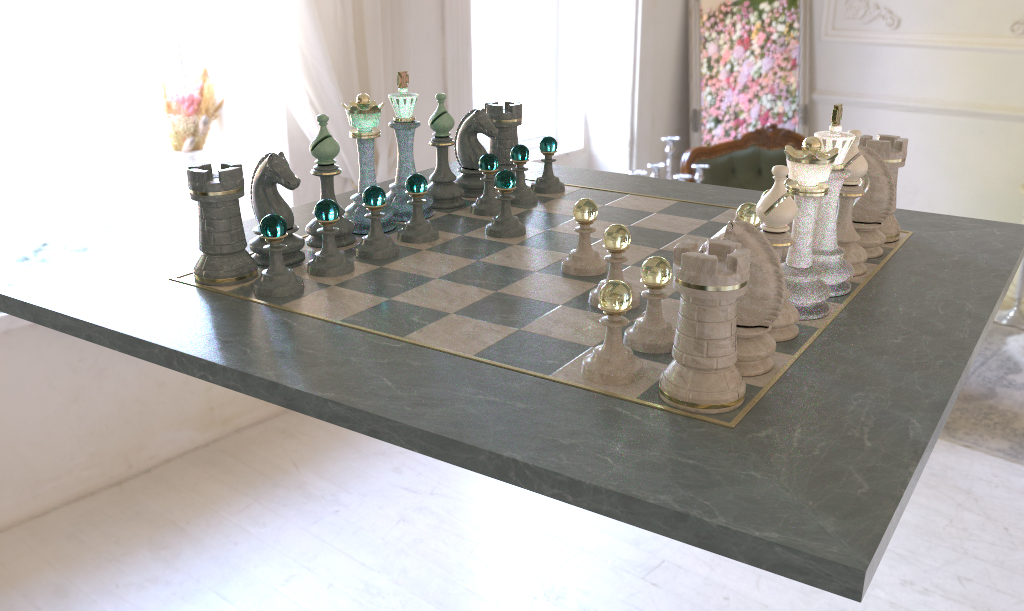
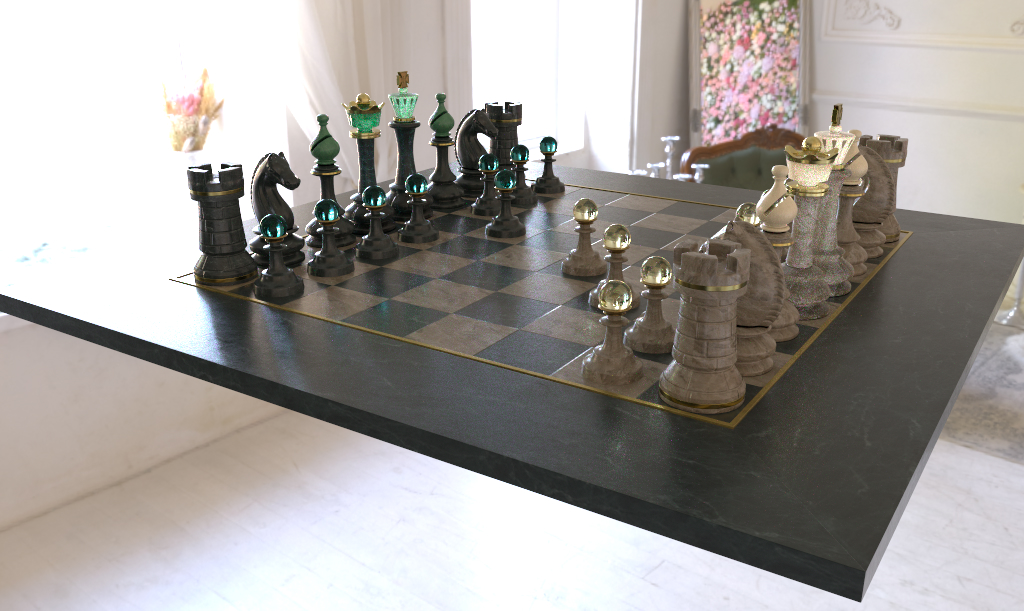
Preserve MaterialX texture color spaces

diff --git a/src/materialx/materialx_compiler.cpp b/src/materialx/materialx_compiler.cpp
@@ -12,6 +12,7 @@
 
 #include <cstdlib>
 #include <iostream>
+#include <map>
 #include <set>
 #include <stdexcept>
 #include <string>
@@ -169,7 +170,9 @@ MaterialXGeneratedProgram BuildGeneratedProgram(
 }
 
 void DumpGeneratedProgram(
-    const MaterialXGeneratedProgram& program, std::string_view shaderName)
+    const MaterialXGeneratedProgram& program,
+    const std::vector<MaterialXShaderInput>& textures,
+    std::string_view shaderName)
 {
     const char* enabled = std::getenv("HDCODEX_DUMP_MATERIALX_PROGRAM");
     const char* filter = std::getenv("HDCODEX_DUMP_MATERIALX_FILTER");
@@ -190,6 +193,12 @@ void DumpGeneratedProgram(
             }
             std::cerr << '\n';
         }
+    }
+    for (const MaterialXShaderInput& texture : textures) {
+        std::cerr << "texture " << texture.name << " = " << texture.value
+                  << " colorspace="
+                  << (texture.colorSpace.empty() ? "<none>" : texture.colorSpace)
+                  << '\n';
     }
 }
 
@@ -269,19 +278,65 @@ std::vector<MaterialXShaderInput> ReflectPublicUniforms(
     return result;
 }
 
+std::string CanonicalColorSpace(std::string_view colorSpace)
+{
+    // USD assets commonly use the ASWF Color Interop texture alias while
+    // MaterialX's built-in color management library calls the same transfer
+    // function srgb_texture. Keep the compiler boundary in MaterialX terms.
+    if (colorSpace == "srgb_tx" || colorSpace == "srgb_rec709_scene") {
+        return "srgb_texture";
+    }
+    if (colorSpace == "lin_rec709_scene") return "lin_rec709";
+    return std::string(colorSpace);
+}
+
+std::map<std::string, std::string, std::less<>> FilenameColorSpaces(
+    const MaterialX::DocumentPtr& document)
+{
+    std::map<std::string, std::string, std::less<>> result;
+    for (const MaterialX::ElementPtr& element : document->traverseTree()) {
+        const MaterialX::InputPtr input = element->asA<MaterialX::Input>();
+        if (!input || input->getType() != MaterialX::FILENAME_TYPE_STRING ||
+            !input->hasValue()) {
+            continue;
+        }
+        const std::string value = input->getValueString();
+        if (value.empty()) continue;
+        const std::string colorSpace = CanonicalColorSpace(
+            input->getActiveColorSpace());
+        const auto [position, inserted] = result.try_emplace(value, colorSpace);
+        if (!inserted && position->second.empty()) {
+            position->second = colorSpace;
+        } else if (!inserted && !colorSpace.empty() &&
+                   position->second != colorSpace) {
+            throw std::runtime_error(
+                "MaterialX filename is used with conflicting color spaces: " +
+                value);
+        }
+    }
+    return result;
+}
+
 std::vector<MaterialXShaderInput> ReflectTextures(
-    const MaterialX::ShaderStage& stage)
+    const MaterialX::ShaderStage& stage,
+    const MaterialX::DocumentPtr& document)
 {
     std::vector<MaterialXShaderInput> result;
+    const auto sourceColorSpaces = FilenameColorSpaces(document);
     for (const auto& [blockName, block] : stage.getUniformBlocks()) {
         (void)blockName;
         for (const MaterialX::ShaderPort* port : block->getVariableOrder()) {
             if (port->getType() != MaterialX::Type::FILENAME) continue;
+            std::string colorSpace = CanonicalColorSpace(port->getColorSpace());
+            if (colorSpace.empty()) {
+                const auto source = sourceColorSpaces.find(port->getValueString());
+                if (source != sourceColorSpaces.end()) colorSpace = source->second;
+            }
             result.push_back({
                 .name = port->getVariable(),
                 .type = port->getType().getName(),
                 .value = port->getValueString(),
-                .colorSpace = port->getColorSpace(),
+                .colorSpace = std::move(colorSpace),
             });
         }
     }
@@ -345,11 +400,11 @@ MaterialXCompiledShader MaterialXCompiler::CompileDocument(
     result.pixelSource = shader->getSourceCode(MaterialX::Stage::PIXEL);
     const auto& pixelStage = shader->getStage(MaterialX::Stage::PIXEL);
     result.publicUniforms = ReflectPublicUniforms(pixelStage);
-    result.textures = ReflectTextures(pixelStage);
+    result.textures = ReflectTextures(pixelStage, generationDocument);
     if (mode != ShadingMode::RasterPreview) {
         result.program = BuildGeneratedProgram(
             generationDocument, renderables.front());
-        DumpGeneratedProgram(result.program, shaderName);
+        DumpGeneratedProgram(result.program, result.textures, shaderName);
         result.closure = CompileMaterialXClosure(result.program);
     }
     FlattenVulkanVertexData(*shader, result.vertexSource, result.pixelSource);

diff --git a/tests/materialx_compiler_tests.cpp b/tests/materialx_compiler_tests.cpp
@@ -126,7 +126,7 @@ try {
     <input name="geomprop" type="string" value="st"/>
   </geompropvalue>
   <image name="albedo" type="color3">
-    <input name="file" type="filename" value="unused.png"/>
+    <input name="file" type="filename" value="unused.png" colorspace="srgb_tx"/>
     <input name="texcoord" type="vector2" nodename="st"/>
   </image>
   <open_pbr_surface name="surface" type="surfaceshader">
@@ -150,7 +150,8 @@ try {
               std::string::npos,
           "MaterialX vertex connector assignment was not flattened");
     Check(std::ranges::any_of(textured.textures, [](const auto& input) {
-        return input.name == "albedo_file" && input.value == "unused.png";
+        return input.name == "albedo_file" && input.value == "unused.png" &&
+            input.colorSpace == "srgb_texture";
     }), "MaterialX texture interface was not reflected");
     Check(std::ranges::any_of(textured.publicUniforms, [](const auto& input) {
         return input.name == "surface_base_weight" && input.type == "float";

diff --git a/tools/inspect_materials.py b/tools/inspect_materials.py
@@ -29,7 +29,14 @@ def main() -> int:
             )
             value = shader_input.Get()
             if value is not None or source_text:
-                print(f"  {shader_input.GetBaseName()}: {value!r} <- {source_text}")
+                color_space = shader_input.GetAttr().GetColorSpace()
+                color_space_text = (
+                    f" colorspace={color_space}" if color_space else ""
+                )
+                print(
+                    f"  {shader_input.GetBaseName()}: {value!r}"
+                    f"{color_space_text} <- {source_text}"
+                )
         count += 1
         if count >= args.limit:
             break

diff --git a/src/hydra/material.cpp b/src/hydra/material.cpp
@@ -63,8 +63,7 @@ std::string LoadTexture(
     std::string_view path,
     std::string_view colorSpace)
 {
-    const bool srgb = colorSpace == "srgb_texture" ||
-        colorSpace == "srgb_rec709_scene";
+    const bool srgb = colorSpace == "srgb_texture";
     return hdcodex::LoadSceneTexture(
         scene, std::string(path),
         srgb ? hdcodex::TextureColorSpace::Srgb

diff --git a/README.md b/README.md
@@ -168,6 +168,7 @@ compile.bat
 validate_usd.bat
 render_test.bat
 render_codex.bat --imageWidth 512 --camera renderCam gallery\chess_board.usda gallery\chess_board.jpg
+render_gallery.bat
 launch_codex.bat
 ```
 
@@ -201,9 +202,10 @@ The images in `gallery/` are checked-in visual baselines. They cover:
 - Pixar KitchenSet for Z-up coordinates and per-mesh `displayColor` fallback.
 - Collective Project 001 for UsdSkel deformation and mesh-subset materials.
 
-Run the command printed beside each image in `gallery.md`, record wall time, and
-commit both the changed images and timing table whenever an intentional renderer
-change affects output.
+Run `render_gallery.bat` to regenerate every baseline at 1024 pixels wide and
+1024 samples per pixel. Record wall time in `gallery.md`, and commit both the
+changed images and timing table whenever an intentional renderer change affects
+output.
 
 ## License
 

diff --git a/docs/architecture.md b/docs/architecture.md
@@ -168,8 +168,10 @@ The default pipeline is:
    unsupported auxiliary normal, volume, emission, and energy-compensation
    decorations preserve the independently supported base closure. USD-native
    `Usd*` networks are rejected rather than translated into MaterialX lookalikes.
-5. Decode referenced images through Hio and upload them to descriptor-indexed
-   Vulkan images with sRGB/raw formats selected per input role.
+5. Preserve filename color-space metadata from the MaterialX document, map the
+   USD/ASWF `srgb_tx` alias to MaterialX `srgb_texture`, then decode referenced
+   images through Hio and upload them to descriptor-indexed Vulkan images with
+   sRGB/raw formats selected by that graph metadata.
 
 glslang is embedded and pinned to the same Khronos Vulkan SDK release as the
 headers and loader. Compilation targets Vulkan 1.3 / SPIR-V 1.6; stage, entry
